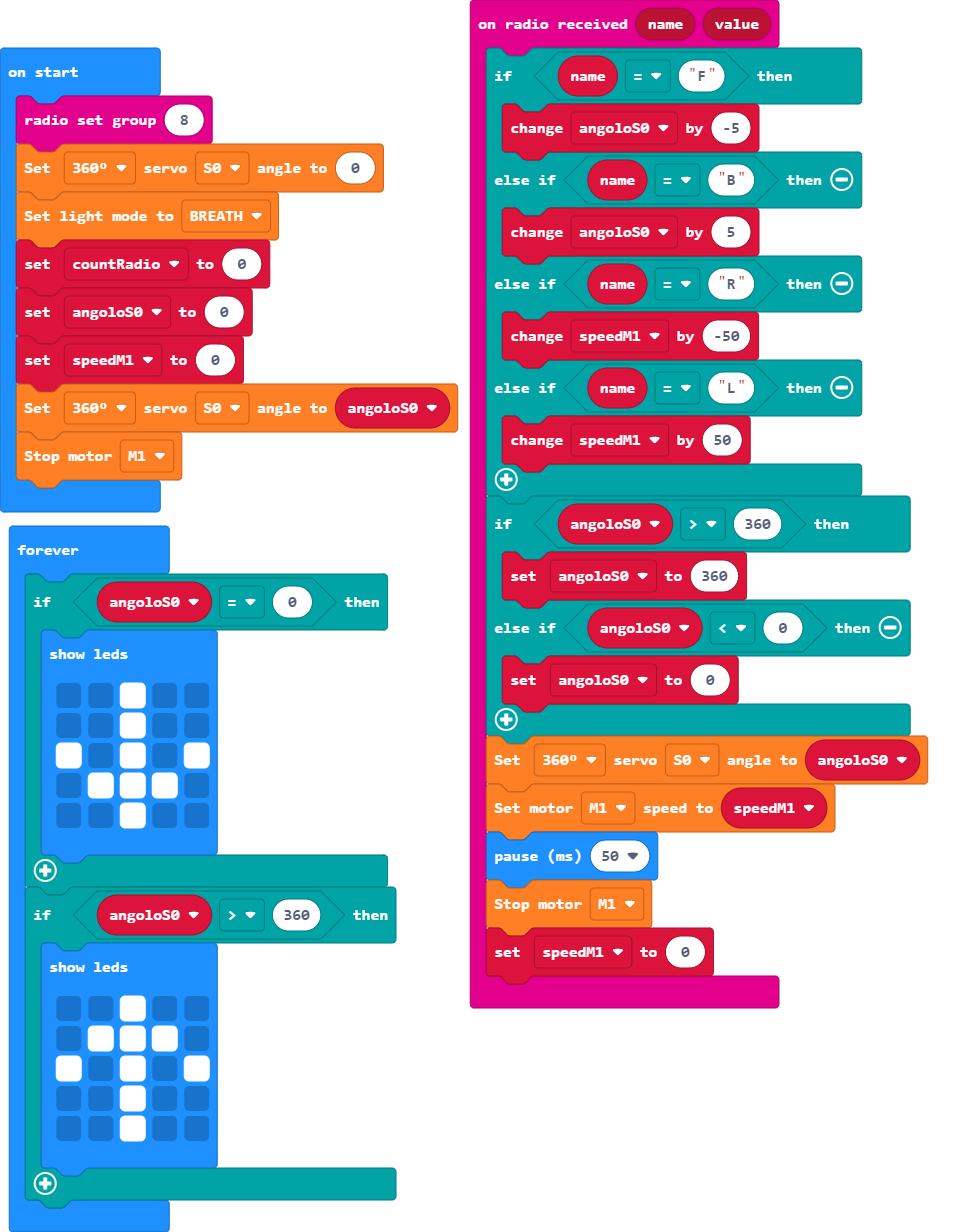
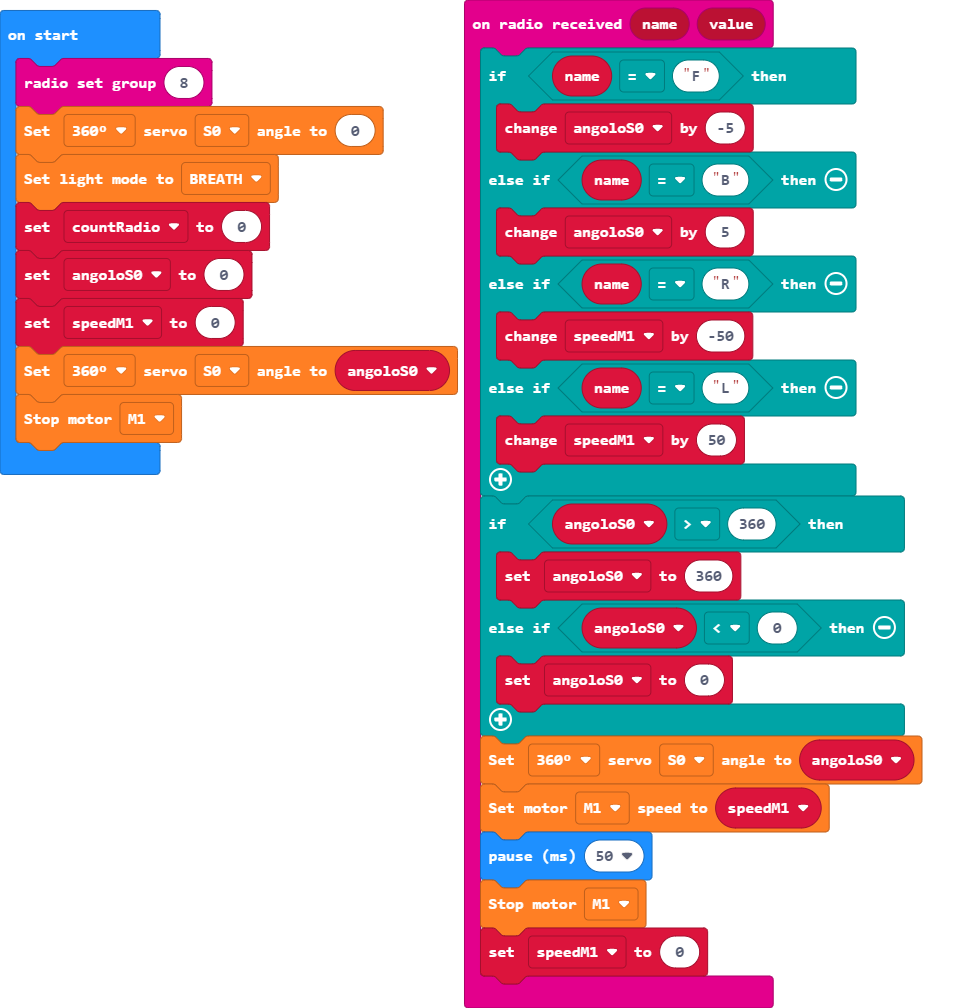
Update main.blocks, main.ts

diff --git a/main.ts b/main.ts
@@ -29,23 +29,3 @@ angoloS0 = 0
 speedM1 = 0
 wuKong.setServoAngle(wuKong.ServoTypeList._360, wuKong.ServoList.S0, angoloS0)
 wuKong.stopMotor(wuKong.MotorList.M1)
-basic.forever(function () {
-    if (angoloS0 == 0) {
-        basic.showLeds(`
-            . . # . .
-            . . # . .
-            # . # . #
-            . # # # .
-            . . # . .
-            `)
-    }
-    if (angoloS0 > 360) {
-        basic.showLeds(`
-            . . # . .
-            . # # # .
-            # . # . #
-            . . # . .
-            . . # . .
-            `)
-    }
-})
